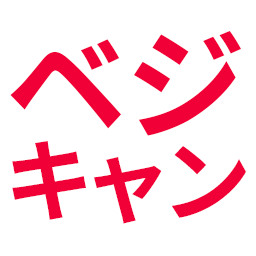
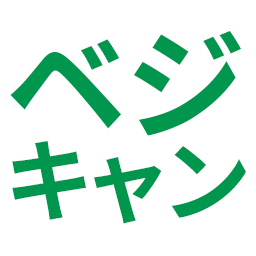
style(vegecam):メインビジュアル

diff --git a/vegecam/scss/css/style.min.css b/vegecam/scss/css/style.min.css
@@ -1,1 +1,1 @@
-@charset "UTF-8";:root{--base-gutter:20px;--break-sm:576px;--break-md:768px;--break-lg:1006px;--box-shadow:0 2px 3px rgba(0, 0, 0, .2);--contents-width:960px;--color-font:#333333;--color-emphasis:#DB0A17}*,::after,::before{box-sizing:border-box;background-repeat:no-repeat}::after,::before{text-decoration:inherit;vertical-align:inherit}:where(:root){cursor:default;line-height:1.5;overflow-wrap:break-word;-moz-tab-size:4;tab-size:4;-webkit-tap-highlight-color:transparent;-webkit-text-size-adjust:100%;text-size-adjust:100%}:where(body){margin:0}:where(h1){font-size:2em;margin:.67em 0}:where(dl,ol,ul) :where(dl,ol,ul){margin:0}:where(hr){color:inherit;height:0}:where(nav) :where(ol,ul){list-style-type:none;padding:0}:where(nav li)::before{content:"";float:left}:where(pre){font-family:monospace,monospace;font-size:1em;overflow:auto}:where(abbr[title]){text-decoration:underline dotted}:where(b,strong){font-weight:bolder}:where(code,kbd,samp){font-family:monospace,monospace;font-size:1em}:where(small){font-size:80%}:where(audio,canvas,iframe,img,svg,video){vertical-align:middle}:where(iframe){border-style:none}:where(svg:not([fill])){fill:currentColor}:where(table){border-collapse:collapse;border-color:currentColor;text-indent:0}:where(button,input,select){margin:0}:where(button,[type=button i],[type=reset i],[type=submit i]){-webkit-appearance:button}:where(fieldset){border:1px solid #a0a0a0}:where(progress){vertical-align:baseline}:where(textarea){margin:0;resize:vertical}:where([type=search i]){-webkit-appearance:textfield;outline-offset:-2px}::-webkit-inner-spin-button,::-webkit-outer-spin-button{height:auto}::-webkit-input-placeholder{color:inherit;opacity:.54}::-webkit-search-decoration{-webkit-appearance:none}::-webkit-file-upload-button{-webkit-appearance:button;font:inherit}:where(dialog){background-color:#fff;border:solid;color:#000;height:-moz-fit-content;height:fit-content;left:0;margin:auto;padding:1em;position:absolute;right:0;width:-moz-fit-content;width:fit-content}:where(dialog:not([open])){display:none}:where(details>summary:first-of-type){display:list-item}:where([aria-busy=true i]){cursor:progress}:where([aria-disabled=true i],[disabled]){cursor:not-allowed}:where([aria-hidden=false i][hidden]){display:initial}:where([aria-hidden=false i][hidden]:not(:focus)){clip:rect(0,0,0,0);position:absolute}.u-emphasis{color:#db0a17}.u-hidden{display:none}@media screen and (min-width:768px){.u-visible--md{display:block}}.u-text-right{text-align:right}.u-text-left{text-align:left}.u-mt-1{margin-top:var(--base-gutter)}@media screen and (min-width:1006px){:root{--box-shadow:3px 3px 4px rgba(0, 0, 0, .2)}}html{font-size:14px}body{font-family:"Noto Sans JP",sans-serif;font-feature-settings:"palt";line-height:1.85}img{max-width:100%;height:auto;vertical-align:bottom}main{padding-top:var(--base-gutter);padding-bottom:var(--base-gutter)}h1,h2,strong{font-weight:400}strong{background:linear-gradient(transparent 60%,#ffe67a 60%,#ffe67a 90%,transparent 90%)}ol,ul{list-style:none}p{margin-top:1.5rem;margin-bottom:0}.lead{font-size:1.2rem}h1,h2{line-height:1.5}.signature,h3{font-size:1.5rem}h3{font-weight:400;line-height:1.3}h3>span{font-size:1rem}.signature{text-align:right;line-height:1.2}.signature>span{font-size:.9rem}@media screen and (min-width:1006px){.signature{font-size:1.1rem}.signature>span{font-size:.8rem}}figure,h1,h2,h3{margin:0}.c-container{max-width:calc(var(--contents-width) + var(--base-gutter)*2);padding:calc(var(--base-gutter)*1.5) var(--base-gutter);margin-left:auto;margin-right:auto}.c-container.is-border{position:relative}.c-container.is-border::before{position:absolute;top:0;left:var(--base-gutter);content:"";display:block;width:calc(100% - var(--base-gutter)*2);height:1px;background-color:var(--color-emphasis)}.c-section.p-process .c-container{padding-top:0}.c-section.p-process .c-section__title{padding:.5em 0;border-top:1px solid var(--color-emphasis);border-bottom:1px solid var(--color-emphasis);font-size:min(5.4vw,2em);text-align:center}@media screen and (min-width:768px){.c-section.p-process .c-section__title{padding:1.25em 0;text-align:left}}.c-section__title{font-size:2em;letter-spacing:.075em;color:var(--color-emphasis)}.c-section__lead{margin-top:1rem;letter-spacing:.075em;font-size:2em;line-height:1.5}@media screen and (min-width:768px){.p-key-visual img{width:100%}}.p-introduction{text-align:center}.p-introduction>.c-container{max-width:calc(640px + var(--base-gutter)*2);padding-bottom:calc(var(--base-gutter)*2.5)}.p-introduction__logo{display:flex;align-items:flex-end;justify-content:space-between}.p-introduction__logo>img:nth-of-type(1){flex-basis:34.2741935484%;max-width:34.2741935484%}.p-introduction__logo>img:nth-of-type(2){flex-basis:8.4677419355%;max-width:8.4677419355%}.p-introduction__logo>img:nth-of-type(3){flex-basis:45.9677419355%;max-width:45.9677419355%}.p-introduction__title{margin-top:30px}.p-introduction__title>span:nth-of-type(1){display:block;font-size:min(6.9vw,40px);line-height:1.3;letter-spacing:.07em}.p-introduction__title>span:nth-of-type(2){display:block;margin-top:5px;font-size:min(11.5vw,89px);letter-spacing:.1em;color:var(--color-emphasis)}.p-introduction__lead{margin-top:10px;font-size:min(4.5vw,30px);letter-spacing:.05em;line-height:1.5}.p-practice{margin-left:calc(50% - 50vw);margin-right:calc(50% - 50vw);padding-left:calc(50vw - 50%);padding-right:calc(50vw - 50%);background-color:#fffcd9;counter-set:practice}.p-practice__list{margin-top:calc(var(--base-gutter)*2)}@media screen and (min-width:768px){.p-practice__list{grid-column:1/3}}.p-practice__item{position:relative;padding-block:calc(var(--base-gutter)*2);border-top:1px dashed var(--color-emphasis);counter-increment:practice}@media screen and (min-width:768px){.p-practice__item{display:grid;grid-template-columns:.4fr .6fr;gap:var(--base-gutter);align-items:start}}@media screen and (min-width:1006px){.p-practice__item{gap:calc(var(--base-gutter)*2)}}.p-practice__item::before{position:absolute;top:0;left:0;content:"PRACTICE "counter(practice)".";display:inline-block;font-weight:900;font-size:14px;letter-spacing:.1em;color:#fff;background-color:var(--color-emphasis);padding:0 1.5em 1px;transform:translateY(-50%)}.p-practice__item:nth-of-type(1)>.p-practice__figure{grid-template-columns:.310786106fr .2340036563fr .0767824497fr .3729433272fr}.p-practice__item:nth-of-type(1)>.p-practice__figure>img:nth-of-type(1){grid-column:1/3;grid-row:1/2}.p-practice__item:nth-of-type(1)>.p-practice__figure>img:nth-of-type(2){grid-column:3/5;grid-row:1/2}.p-practice__item:nth-of-type(1)>.p-practice__figure>img:nth-of-type(3){grid-column:1/2;grid-row:2/3}.p-practice__item:nth-of-type(1)>.p-practice__figure>img:nth-of-type(4){grid-column:2/4;grid-row:2/3}.p-practice__item:nth-of-type(1)>.p-practice__figure>img:nth-of-type(5){grid-column:4/5;grid-row:2/3}.p-practice__item:nth-of-type(2)>.p-practice__figure{grid-template-columns:.4716636197fr .1188299817fr .1718464351fr .2376599634fr}.p-practice__item:nth-of-type(2)>.p-practice__figure>img:nth-of-type(1){grid-column:1/3;grid-row:1/2}.p-practice__item:nth-of-type(2)>.p-practice__figure>img:nth-of-type(2){grid-column:3/5;grid-row:1/2}.p-practice__item:nth-of-type(2)>.p-practice__figure>img:nth-of-type(3){grid-column:1/2;grid-row:2/3}.p-practice__item:nth-of-type(2)>.p-practice__figure>img:nth-of-type(4){grid-column:2/4;grid-row:2/3}.p-practice__item:nth-of-type(2)>.p-practice__figure>img:nth-of-type(5){grid-column:4/5;grid-row:2/3}.p-practice__item:nth-of-type(3)>.p-practice__figure,.p-practice__item:nth-of-type(4)>.p-practice__figure{grid-template-columns:.4716636197fr .5283363803fr}.p-practice__item:nth-of-type(3)>.p-practice__figure>img:nth-of-type(1){grid-column:1/2;grid-row:1/2}.p-practice__item:nth-of-type(3)>.p-practice__figure>img:nth-of-type(2){grid-column:2/3;grid-row:1/2}.p-practice__item:nth-of-type(3)>.p-practice__figure>img:nth-of-type(3){grid-column:1/2;grid-row:2/3}.p-practice__item:nth-of-type(3)>.p-practice__figure>img:nth-of-type(4){grid-column:2/3;grid-row:2/3}.p-practice__item:nth-of-type(4)>.p-practice__figure>img:nth-of-type(1){grid-column:1/2}.p-practice__item:nth-of-type(4)>.p-practice__figure>img:nth-of-type(2){grid-column:2/3}.p-practice__item:nth-of-type(5)>.p-practice__figure{grid-template-columns:.3125fr .0827205882fr .2536764706fr .0422794118fr .3327205882fr}.p-practice__item:nth-of-type(5)>.p-practice__figure>img:nth-of-type(1){grid-column:1/2;grid-row:1/2}.p-practice__item:nth-of-type(5)>.p-practice__figure>img:nth-of-type(2){grid-column:2/4;grid-row:1/2}.p-practice__item:nth-of-type(5)>.p-practice__figure>img:nth-of-type(3){grid-column:4/6;grid-row:1/2}.p-practice__item:nth-of-type(5)>.p-practice__figure>img:nth-of-type(4){grid-column:1/3;grid-row:2/3}.p-practice__item:nth-of-type(5)>.p-practice__figure>img:nth-of-type(5){grid-column:3/5;grid-row:2/3}.p-practice__item:nth-of-type(5)>.p-practice__figure>img:nth-of-type(6){grid-column:5/6;grid-row:2/3}.p-practice__title{margin-block:0;font-size:2em;line-height:1.1;font-weight:400;letter-spacing:.075em}.p-practice__figure{display:grid;gap:3px;margin-top:1.5em}@media screen and (min-width:768px){.p-practice__figure{margin-top:0}}.p-practice__figure>img,.p-project__figure>img{width:100%;height:100%;object-fit:cover}.p-project__title{display:flex;flex-direction:column;align-items:center;gap:10px}@media screen and (min-width:768px){.p-project__title{align-items:flex-start}}.p-project__figure{display:grid;gap:3px;margin-top:1.5em;min-height:0}@media screen and (min-width:768px){.p-project__figure{margin-top:0}}.p-project__item{position:relative;padding-block:calc(var(--base-gutter)*2)}@media screen and (min-width:768px){.p-project__item:not(.p-estimation){display:grid;grid-template-columns:.4fr .6fr;gap:var(--base-gutter);align-items:start}}@media screen and (min-width:768px) and (min-width:1006px){.p-project__item{gap:calc(var(--base-gutter)*2)}}.p-project__item:not(:first-of-type,.p-estimation)::before{position:absolute;top:0;left:0;display:block;width:100%;height:1px;background-color:var(--color-emphasis);content:""}.p-project__item:not(:first-of-type,.p-estimation).p-practice::before{left:0;right:0;width:calc(100% - var(--base-gutter)*2);max-width:var(--contents-width);margin-inline:auto}.p-project__item:nth-of-type(1)>.p-project__figure{grid-template-columns:.6325411335fr .3674588665fr}.p-project__item:nth-of-type(1)>.p-project__figure>img:nth-of-type(1){grid-column:1/2;grid-row:1/3}.p-project__item:nth-of-type(1)>.p-project__figure>img:nth-of-type(2){grid-column:2/3;grid-row:1/2}.p-project__item:nth-of-type(1)>.p-project__figure>img:nth-of-type(3){grid-column:2/3;grid-row:2/3}.p-project__item:nth-of-type(2)>.p-project__figure{grid-template-columns:1fr .1fr .9fr}.p-project__item:nth-of-type(2)>.p-project__figure>img:nth-of-type(1){grid-column:1/3;grid-row:1/2}.p-project__item:nth-of-type(2)>.p-project__figure>img:nth-of-type(2){grid-column:3/4;grid-row:1/2}.p-project__item:nth-of-type(2)>.p-project__figure>img:nth-of-type(3){grid-column:1/2;grid-row:2/3}.p-project__item:nth-of-type(2)>.p-project__figure>img:nth-of-type(4){grid-column:2/4;grid-row:2/3}.p-project__item:nth-of-type(3)>.p-project__figure{grid-template-columns:.892733564fr 1fr}.p-leaders-voice{background-color:#fdede4}.p-leaders-voice>.c-container{padding-bottom:0}@media screen and (min-width:768px){.p-leaders-voice>.c-container{display:grid;grid-template-columns:.6fr .4fr;gap:var(--base-gutter)}}.p-leaders-voice .c-section__title{line-height:1}.p-leaders-voice .c-section__title>img{width:60%;max-width:245px;vertical-align:baseline}.p-leaders-voice__image{max-width:250px}@media screen and (min-width:768px){.p-leaders-voice__image{max-width:100%}}.p-leaders-voice__director{font-size:15px}.p-leaders-voice__director>img{margin-right:1em;vertical-align:baseline}.p-vegecam{position:relative}.p-vegecam>.c-container:nth-of-type(2){padding-bottom:calc(var(--base-gutter)*4.5)}@media screen and (min-width:1006px){.p-vegecam>.c-container{padding-right:440px}}.p-vegecam .c-section__lead{font-size:1.8em}.p-vegecam__figure{display:none;position:absolute;bottom:0;right:calc((100vw - var(--contents-width))/2);height:100%}@media screen and (min-width:1006px){.p-vegecam__figure{display:flex;justify-content:flex-end;align-items:flex-end}}.p-vegecam__figure .p-vegecam__image{width:45%}.p-footer>.c-container{padding-top:0}@media screen and (min-width:768px){.p-footer>.c-container{padding-top:calc(var(--base-gutter)*1.5);padding-bottom:calc(var(--base-gutter)*4)}}.p-attention{margin-top:0;font-size:12px}.c-cta-button{display:block;max-width:320px;margin:var(--base-gutter) auto 0;padding:1.25em 1em;color:var(--color-font);background-color:#ffe67a;text-align:center;text-decoration:none;font-weight:700;font-size:18px;letter-spacing:.1em;clip-path:polygon(0 0,100%0,100% calc(100% - 20px),calc(100% - 20px) 100%,0 100%)}.c-cta-button+.c-cta-button{margin-top:calc(var(--base-gutter)*1.5)}@media screen and (min-width:768px){.p-cta{display:grid;grid-template-columns:repeat(2,1fr);gap:calc(var(--base-gutter)*2);margin-top:calc(var(--base-gutter)*2)}.p-cta .c-cta-button{max-width:100%;width:100%;margin:0;font-size:24px;clip-path:polygon(0 0,100%0,100% calc(100% - 30px),calc(100% - 30px) 100%,0 100%)}}
+@charset "UTF-8";:root{--base-gutter:20px;--break-sm:576px;--break-md:768px;--break-lg:1006px;--box-shadow:0 2px 3px rgba(0, 0, 0, .2);--contents-width:960px;--color-font:#333333;--color-emphasis:#DB0A17;--color-accent:#00964D}*,::after,::before{box-sizing:border-box;background-repeat:no-repeat}::after,::before{text-decoration:inherit;vertical-align:inherit}:where(:root){cursor:default;line-height:1.5;overflow-wrap:break-word;-moz-tab-size:4;tab-size:4;-webkit-tap-highlight-color:transparent;-webkit-text-size-adjust:100%;text-size-adjust:100%}:where(body){margin:0}:where(h1){font-size:2em;margin:.67em 0}:where(dl,ol,ul) :where(dl,ol,ul){margin:0}:where(hr){color:inherit;height:0}:where(nav) :where(ol,ul){list-style-type:none;padding:0}:where(nav li)::before{content:"";float:left}:where(pre){font-family:monospace,monospace;font-size:1em;overflow:auto}:where(abbr[title]){text-decoration:underline dotted}:where(b,strong){font-weight:bolder}:where(code,kbd,samp){font-family:monospace,monospace;font-size:1em}:where(small){font-size:80%}:where(audio,canvas,iframe,img,svg,video){vertical-align:middle}:where(iframe){border-style:none}:where(svg:not([fill])){fill:currentColor}:where(table){border-collapse:collapse;border-color:currentColor;text-indent:0}:where(button,input,select){margin:0}:where(button,[type=button i],[type=reset i],[type=submit i]){-webkit-appearance:button}:where(fieldset){border:1px solid #a0a0a0}:where(progress){vertical-align:baseline}:where(textarea){margin:0;resize:vertical}:where([type=search i]){-webkit-appearance:textfield;outline-offset:-2px}::-webkit-inner-spin-button,::-webkit-outer-spin-button{height:auto}::-webkit-input-placeholder{color:inherit;opacity:.54}::-webkit-search-decoration{-webkit-appearance:none}::-webkit-file-upload-button{-webkit-appearance:button;font:inherit}:where(dialog){background-color:#fff;border:solid;color:#000;height:-moz-fit-content;height:fit-content;left:0;margin:auto;padding:1em;position:absolute;right:0;width:-moz-fit-content;width:fit-content}:where(dialog:not([open])){display:none}:where(details>summary:first-of-type){display:list-item}:where([aria-busy=true i]){cursor:progress}:where([aria-disabled=true i],[disabled]){cursor:not-allowed}:where([aria-hidden=false i][hidden]){display:initial}:where([aria-hidden=false i][hidden]:not(:focus)){clip:rect(0,0,0,0);position:absolute}.u-emphasis{color:#db0a17}.u-hidden{display:none}@media screen and (min-width:768px){.u-visible--md{display:block}}.u-text-right{text-align:right}.u-text-left{text-align:left}.u-mt-1{margin-top:var(--base-gutter)}@media screen and (min-width:1006px){:root{--box-shadow:3px 3px 4px rgba(0, 0, 0, .2)}}html{font-size:14px}body{font-family:"Noto Sans JP",sans-serif;font-feature-settings:"palt";line-height:1.85}img{max-width:100%;height:auto;vertical-align:bottom}main{padding-top:var(--base-gutter);padding-bottom:var(--base-gutter)}h1,h2,strong{font-weight:400}strong{background:linear-gradient(transparent 60%,#ffe67a 60%,#ffe67a 90%,transparent 90%)}ol,ul{list-style:none}p{margin-top:1.5rem;margin-bottom:0}.lead{font-size:1.2rem}h1,h2{line-height:1.5}.signature,h3{font-size:1.5rem}h3{font-weight:400;line-height:1.3}h3>span{font-size:1rem}.signature{text-align:right;line-height:1.2}.signature>span{font-size:.9rem}@media screen and (min-width:1006px){.signature{font-size:1.1rem}.signature>span{font-size:.8rem}}figure,h1,h2,h3{margin:0}.c-container{max-width:calc(var(--contents-width) + var(--base-gutter)*2);padding:calc(var(--base-gutter)*1.5) var(--base-gutter);margin-left:auto;margin-right:auto}.c-container.is-border{position:relative}.c-container.is-border::before{position:absolute;top:0;left:var(--base-gutter);content:"";display:block;width:calc(100% - var(--base-gutter)*2);height:1px;background-color:var(--color-emphasis)}.c-section.p-process .c-container{padding-top:0}.c-section.p-process .c-section__title{padding:.5em 0;border-top:1px solid var(--color-emphasis);border-bottom:1px solid var(--color-emphasis);font-size:min(5.4vw,2em);text-align:center}@media screen and (min-width:768px){.c-section.p-process .c-section__title{padding:1.25em 0;text-align:left}}.c-section__title{font-size:2em;letter-spacing:.075em;color:var(--color-emphasis)}.c-section__lead{margin-top:1rem;letter-spacing:.075em;font-size:2em;line-height:1.5}@media screen and (min-width:768px){.p-key-visual img{max-height:100vh;max-height:100svh;object-fit:cover;object-position:center top}}.p-introduction{text-align:center}.p-introduction>.c-container{max-width:calc(640px + var(--base-gutter)*2);padding-bottom:calc(var(--base-gutter)*2.5)}.p-introduction__logo{display:flex;align-items:flex-end;justify-content:space-between}.p-introduction__logo>img:nth-of-type(1){flex-basis:34.2741935484%;max-width:34.2741935484%}.p-introduction__logo>img:nth-of-type(2){flex-basis:8.4677419355%;max-width:8.4677419355%}.p-introduction__logo>img:nth-of-type(3){flex-basis:45.9677419355%;max-width:45.9677419355%}.p-introduction__title{margin-top:30px}.p-introduction__title>span:nth-of-type(1){display:block;font-size:min(6.9vw,40px);line-height:1.3;letter-spacing:.07em}.p-introduction__title>span:nth-of-type(2){display:block;margin-top:5px;font-size:min(11.5vw,89px);letter-spacing:.1em;color:var(--color-accent)}.p-introduction__lead{margin-top:10px;font-size:min(4.5vw,30px);letter-spacing:.05em;line-height:1.5}.p-practice{margin-left:calc(50% - 50vw);margin-right:calc(50% - 50vw);padding-left:calc(50vw - 50%);padding-right:calc(50vw - 50%);background-color:#fffcd9;counter-set:practice}.p-practice__list{margin-top:calc(var(--base-gutter)*2)}@media screen and (min-width:768px){.p-practice__list{grid-column:1/3}}.p-practice__item{position:relative;padding-block:calc(var(--base-gutter)*2);border-top:1px dashed var(--color-emphasis);counter-increment:practice}@media screen and (min-width:768px){.p-practice__item{display:grid;grid-template-columns:.4fr .6fr;gap:var(--base-gutter);align-items:start}}@media screen and (min-width:1006px){.p-practice__item{gap:calc(var(--base-gutter)*2)}}.p-practice__item::before{position:absolute;top:0;left:0;content:"PRACTICE "counter(practice)".";display:inline-block;font-weight:900;font-size:14px;letter-spacing:.1em;color:#fff;background-color:var(--color-emphasis);padding:0 1.5em 1px;transform:translateY(-50%)}.p-practice__item:nth-of-type(1)>.p-practice__figure{grid-template-columns:.310786106fr .2340036563fr .0767824497fr .3729433272fr}.p-practice__item:nth-of-type(1)>.p-practice__figure>img:nth-of-type(1){grid-column:1/3;grid-row:1/2}.p-practice__item:nth-of-type(1)>.p-practice__figure>img:nth-of-type(2){grid-column:3/5;grid-row:1/2}.p-practice__item:nth-of-type(1)>.p-practice__figure>img:nth-of-type(3){grid-column:1/2;grid-row:2/3}.p-practice__item:nth-of-type(1)>.p-practice__figure>img:nth-of-type(4){grid-column:2/4;grid-row:2/3}.p-practice__item:nth-of-type(1)>.p-practice__figure>img:nth-of-type(5){grid-column:4/5;grid-row:2/3}.p-practice__item:nth-of-type(2)>.p-practice__figure{grid-template-columns:.4716636197fr .1188299817fr .1718464351fr .2376599634fr}.p-practice__item:nth-of-type(2)>.p-practice__figure>img:nth-of-type(1){grid-column:1/3;grid-row:1/2}.p-practice__item:nth-of-type(2)>.p-practice__figure>img:nth-of-type(2){grid-column:3/5;grid-row:1/2}.p-practice__item:nth-of-type(2)>.p-practice__figure>img:nth-of-type(3){grid-column:1/2;grid-row:2/3}.p-practice__item:nth-of-type(2)>.p-practice__figure>img:nth-of-type(4){grid-column:2/4;grid-row:2/3}.p-practice__item:nth-of-type(2)>.p-practice__figure>img:nth-of-type(5){grid-column:4/5;grid-row:2/3}.p-practice__item:nth-of-type(3)>.p-practice__figure,.p-practice__item:nth-of-type(4)>.p-practice__figure{grid-template-columns:.4716636197fr .5283363803fr}.p-practice__item:nth-of-type(3)>.p-practice__figure>img:nth-of-type(1){grid-column:1/2;grid-row:1/2}.p-practice__item:nth-of-type(3)>.p-practice__figure>img:nth-of-type(2){grid-column:2/3;grid-row:1/2}.p-practice__item:nth-of-type(3)>.p-practice__figure>img:nth-of-type(3){grid-column:1/2;grid-row:2/3}.p-practice__item:nth-of-type(3)>.p-practice__figure>img:nth-of-type(4){grid-column:2/3;grid-row:2/3}.p-practice__item:nth-of-type(4)>.p-practice__figure>img:nth-of-type(1){grid-column:1/2}.p-practice__item:nth-of-type(4)>.p-practice__figure>img:nth-of-type(2){grid-column:2/3}.p-practice__item:nth-of-type(5)>.p-practice__figure{grid-template-columns:.3125fr .0827205882fr .2536764706fr .0422794118fr .3327205882fr}.p-practice__item:nth-of-type(5)>.p-practice__figure>img:nth-of-type(1){grid-column:1/2;grid-row:1/2}.p-practice__item:nth-of-type(5)>.p-practice__figure>img:nth-of-type(2){grid-column:2/4;grid-row:1/2}.p-practice__item:nth-of-type(5)>.p-practice__figure>img:nth-of-type(3){grid-column:4/6;grid-row:1/2}.p-practice__item:nth-of-type(5)>.p-practice__figure>img:nth-of-type(4){grid-column:1/3;grid-row:2/3}.p-practice__item:nth-of-type(5)>.p-practice__figure>img:nth-of-type(5){grid-column:3/5;grid-row:2/3}.p-practice__item:nth-of-type(5)>.p-practice__figure>img:nth-of-type(6){grid-column:5/6;grid-row:2/3}.p-practice__title{margin-block:0;font-size:2em;line-height:1.1;font-weight:400;letter-spacing:.075em}.p-practice__figure{display:grid;gap:3px;margin-top:1.5em}@media screen and (min-width:768px){.p-practice__figure{margin-top:0}}.p-practice__figure>img,.p-project__figure>img{width:100%;height:100%;object-fit:cover}.p-project__title{display:flex;flex-direction:column;align-items:center;gap:10px}@media screen and (min-width:768px){.p-project__title{align-items:flex-start}}.p-project__figure{display:grid;gap:3px;margin-top:1.5em;min-height:0}@media screen and (min-width:768px){.p-project__figure{margin-top:0}}.p-project__item{position:relative;padding-block:calc(var(--base-gutter)*2)}@media screen and (min-width:768px){.p-project__item:not(.p-estimation){display:grid;grid-template-columns:.4fr .6fr;gap:var(--base-gutter);align-items:start}}@media screen and (min-width:768px) and (min-width:1006px){.p-project__item{gap:calc(var(--base-gutter)*2)}}.p-project__item:not(:first-of-type,.p-estimation)::before{position:absolute;top:0;left:0;display:block;width:100%;height:1px;background-color:var(--color-emphasis);content:""}.p-project__item:not(:first-of-type,.p-estimation).p-practice::before{left:0;right:0;width:calc(100% - var(--base-gutter)*2);max-width:var(--contents-width);margin-inline:auto}.p-project__item:nth-of-type(1)>.p-project__figure{grid-template-columns:.6325411335fr .3674588665fr}.p-project__item:nth-of-type(1)>.p-project__figure>img:nth-of-type(1){grid-column:1/2;grid-row:1/3}.p-project__item:nth-of-type(1)>.p-project__figure>img:nth-of-type(2){grid-column:2/3;grid-row:1/2}.p-project__item:nth-of-type(1)>.p-project__figure>img:nth-of-type(3){grid-column:2/3;grid-row:2/3}.p-project__item:nth-of-type(2)>.p-project__figure{grid-template-columns:1fr .1fr .9fr}.p-project__item:nth-of-type(2)>.p-project__figure>img:nth-of-type(1){grid-column:1/3;grid-row:1/2}.p-project__item:nth-of-type(2)>.p-project__figure>img:nth-of-type(2){grid-column:3/4;grid-row:1/2}.p-project__item:nth-of-type(2)>.p-project__figure>img:nth-of-type(3){grid-column:1/2;grid-row:2/3}.p-project__item:nth-of-type(2)>.p-project__figure>img:nth-of-type(4){grid-column:2/4;grid-row:2/3}.p-project__item:nth-of-type(3)>.p-project__figure{grid-template-columns:.892733564fr 1fr}.p-leaders-voice{background-color:#fdede4}.p-leaders-voice>.c-container{padding-bottom:0}@media screen and (min-width:768px){.p-leaders-voice>.c-container{display:grid;grid-template-columns:.6fr .4fr;gap:var(--base-gutter)}}.p-leaders-voice .c-section__title{line-height:1}.p-leaders-voice .c-section__title>img{width:60%;max-width:245px;vertical-align:baseline}.p-leaders-voice__image{max-width:250px}@media screen and (min-width:768px){.p-leaders-voice__image{max-width:100%}}.p-leaders-voice__director{font-size:15px}.p-leaders-voice__director>img{margin-right:1em;vertical-align:baseline}.p-vegecam{position:relative}.p-vegecam>.c-container:nth-of-type(2){padding-bottom:calc(var(--base-gutter)*4.5)}@media screen and (min-width:1006px){.p-vegecam>.c-container{padding-right:440px}}.p-vegecam .c-section__lead{font-size:1.8em}.p-vegecam__figure{display:none;position:absolute;bottom:0;right:calc((100vw - var(--contents-width))/2);height:100%}@media screen and (min-width:1006px){.p-vegecam__figure{display:flex;justify-content:flex-end;align-items:flex-end}}.p-vegecam__figure .p-vegecam__image{width:45%}.p-footer>.c-container{padding-top:0}@media screen and (min-width:768px){.p-footer>.c-container{padding-top:calc(var(--base-gutter)*1.5);padding-bottom:calc(var(--base-gutter)*4)}}.p-attention{margin-top:0;font-size:12px}.c-cta-button{display:block;max-width:320px;margin:var(--base-gutter) auto 0;padding:1.25em 1em;color:var(--color-font);background-color:#ffe67a;text-align:center;text-decoration:none;font-weight:700;font-size:18px;letter-spacing:.1em;clip-path:polygon(0 0,100%0,100% calc(100% - 20px),calc(100% - 20px) 100%,0 100%)}.c-cta-button+.c-cta-button{margin-top:calc(var(--base-gutter)*1.5)}@media screen and (min-width:768px){.p-cta{display:grid;grid-template-columns:repeat(2,1fr);gap:calc(var(--base-gutter)*2);margin-top:calc(var(--base-gutter)*2)}.p-cta .c-cta-button{max-width:100%;width:100%;margin:0;font-size:24px;clip-path:polygon(0 0,100%0,100% calc(100% - 30px),calc(100% - 30px) 100%,0 100%)}}

diff --git a/vegecam/scss/css/style.css b/vegecam/scss/css/style.css
@@ -8,6 +8,7 @@
   --contents-width: 960px;
   --color-font: #333333;
   --color-emphasis: #DB0A17;
+  --color-accent: #00964D;
 }
 
 /* Document
@@ -482,7 +483,10 @@ figure {
 
 @media screen and (min-width: 768px) {
   .p-key-visual img {
-    width: 100%;
+    max-height: 100vh;
+    max-height: 100svh;
+    object-fit: cover;
+    object-position: center top;
   }
 }
 
@@ -526,7 +530,7 @@ figure {
   margin-top: 5px;
   font-size: min(11.5vw, 89px);
   letter-spacing: 0.1em;
-  color: var(--color-emphasis);
+  color: var(--color-accent);
 }
 
 .p-introduction__lead {

diff --git a/vegecam/scss/project/_p-key-visual.scss b/vegecam/scss/project/_p-key-visual.scss
@@ -4,8 +4,11 @@
   @include settings.md {
     img {
       //max-height: 90vh;
-      //object-fit: cover;
-      width: 100%;
+      max-height: 100vh;
+      max-height: 100svh;
+      object-fit: cover;
+      object-position: center top;
+      //width: 100%;
     }
   }
 }

diff --git a/vegecam/scss/project/_p-introduction.scss b/vegecam/scss/project/_p-introduction.scss
@@ -48,7 +48,7 @@
       margin-top: 5px;
       font-size: min(11.5vw, 89px);
       letter-spacing: .1em;
-      color: var(--color-emphasis);
+      color: var(--color-accent);
     }
   }
 }

diff --git a/vegecam/scss/settings/_variables.scss b/vegecam/scss/settings/_variables.scss
@@ -12,4 +12,5 @@ $lg: 1006px;
 
   --color-font: #333333;
   --color-emphasis: #DB0A17;
+  --color-accent: #00964D;
 }
